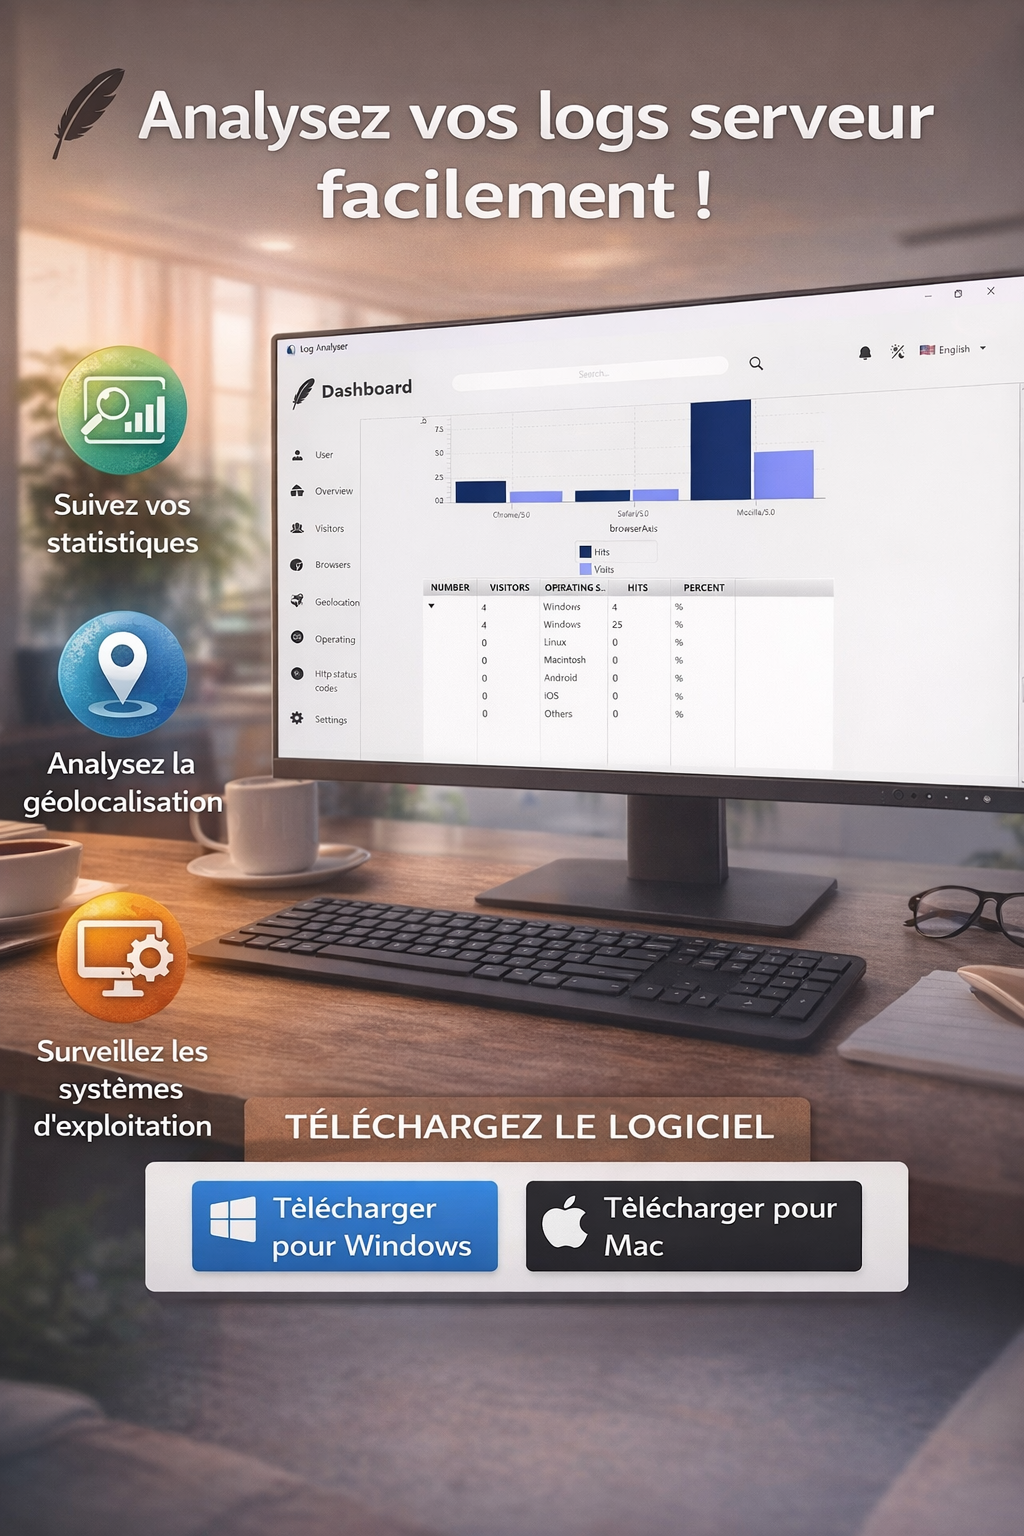
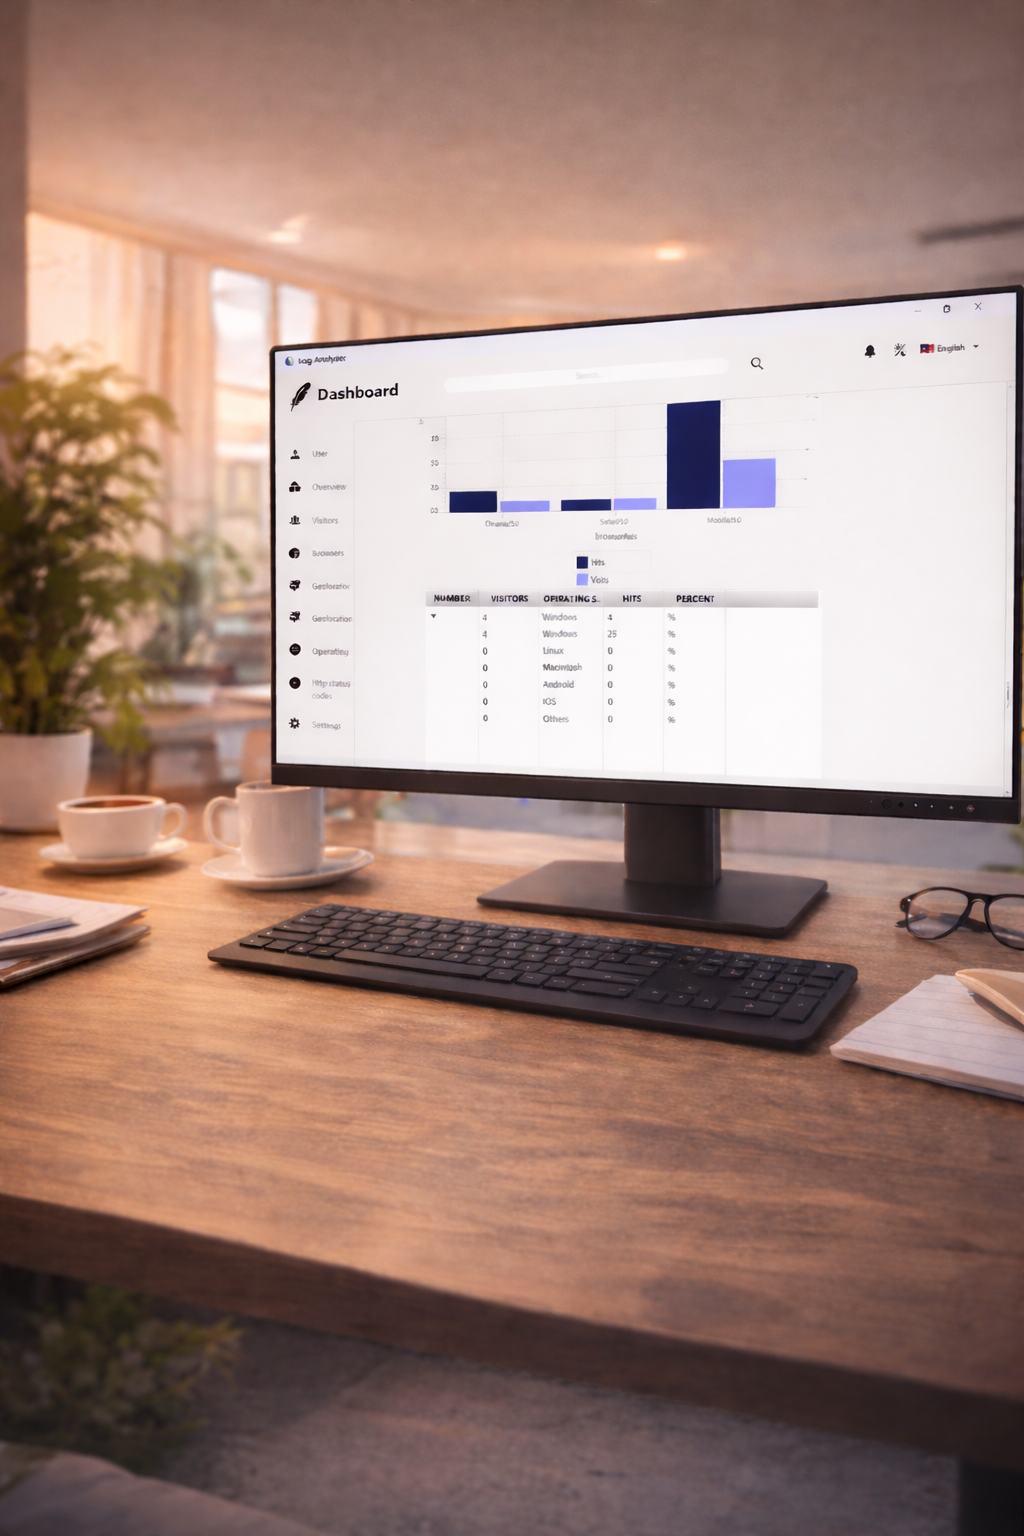
update filters

diff --git a/src/constants/index.js b/src/constants/index.js
@@ -292,29 +292,13 @@ export const projectFilters = [
     name: "Python",
   },
   {
-    icon: react,
-    name: "React",
-  },
-  {
-    icon: php,
-    name: "Php",
-  },
-  {
     icon: javascript,
     name: "JavaScript",
   },
   {
-    icon: spring,
-    name: "JEE",
-  },
-  {
     icon: java,
     name: "Java",
-  },
-  {
-    icon: android,
-    name: "Android",
-  },
+  }
 ];
 
 export const projects = [
